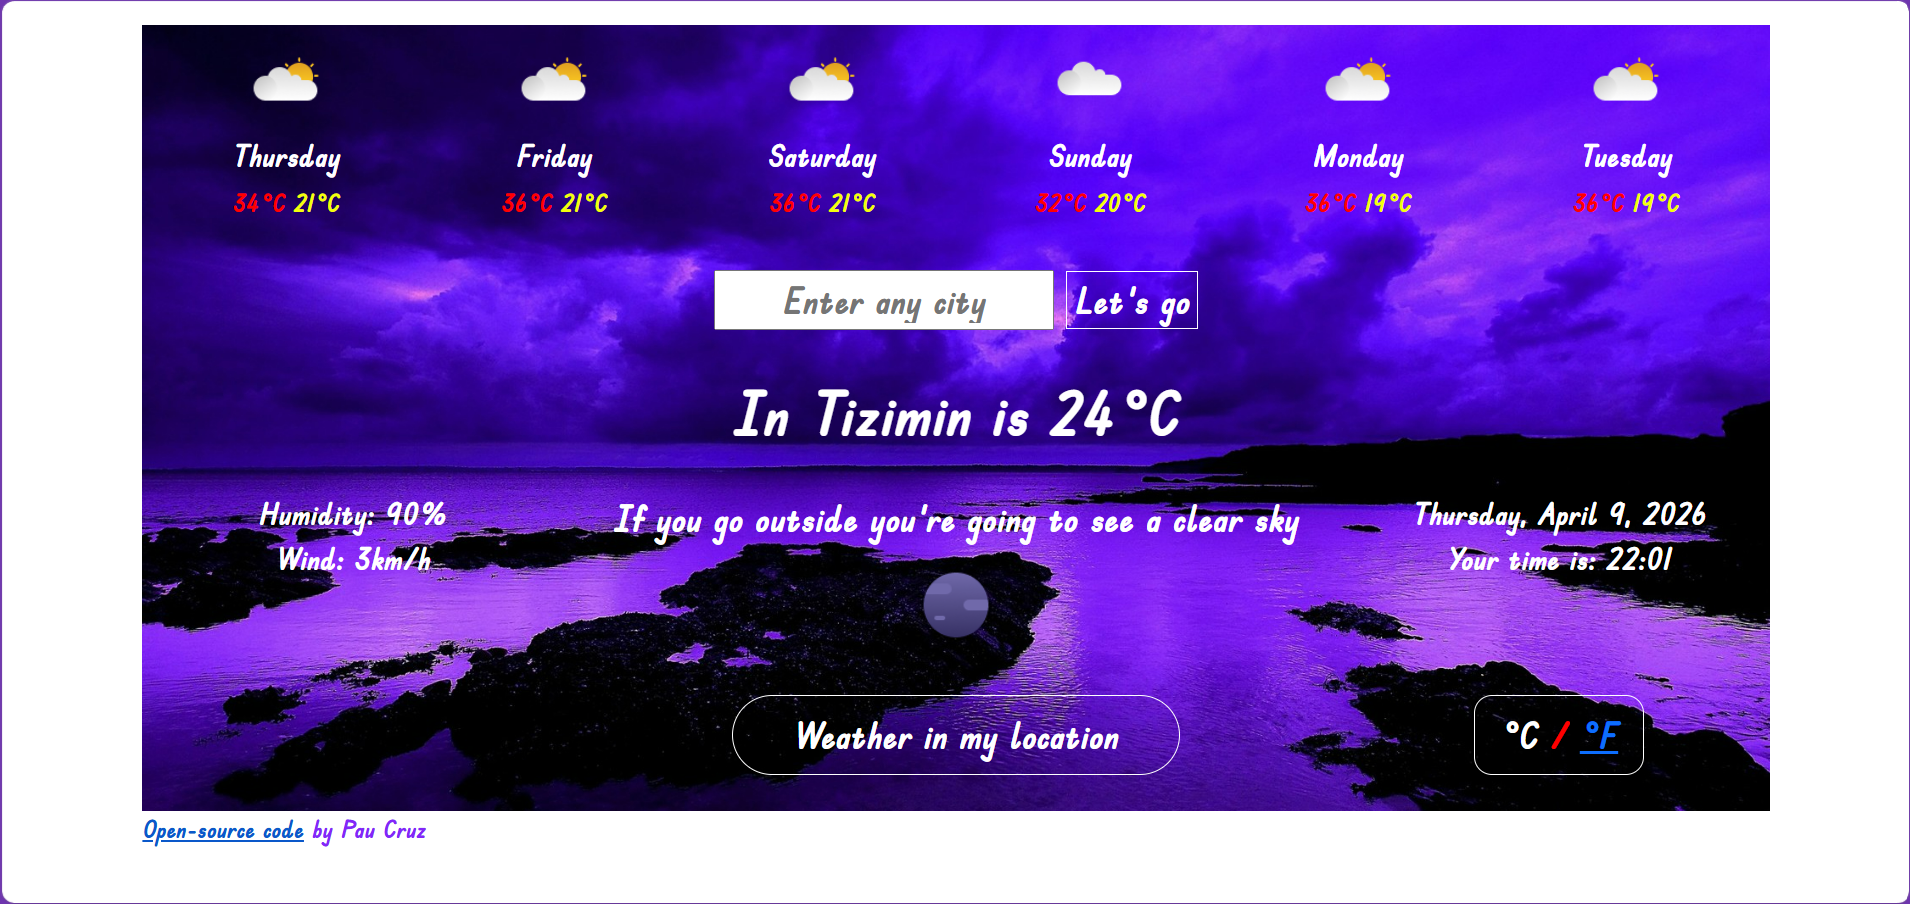
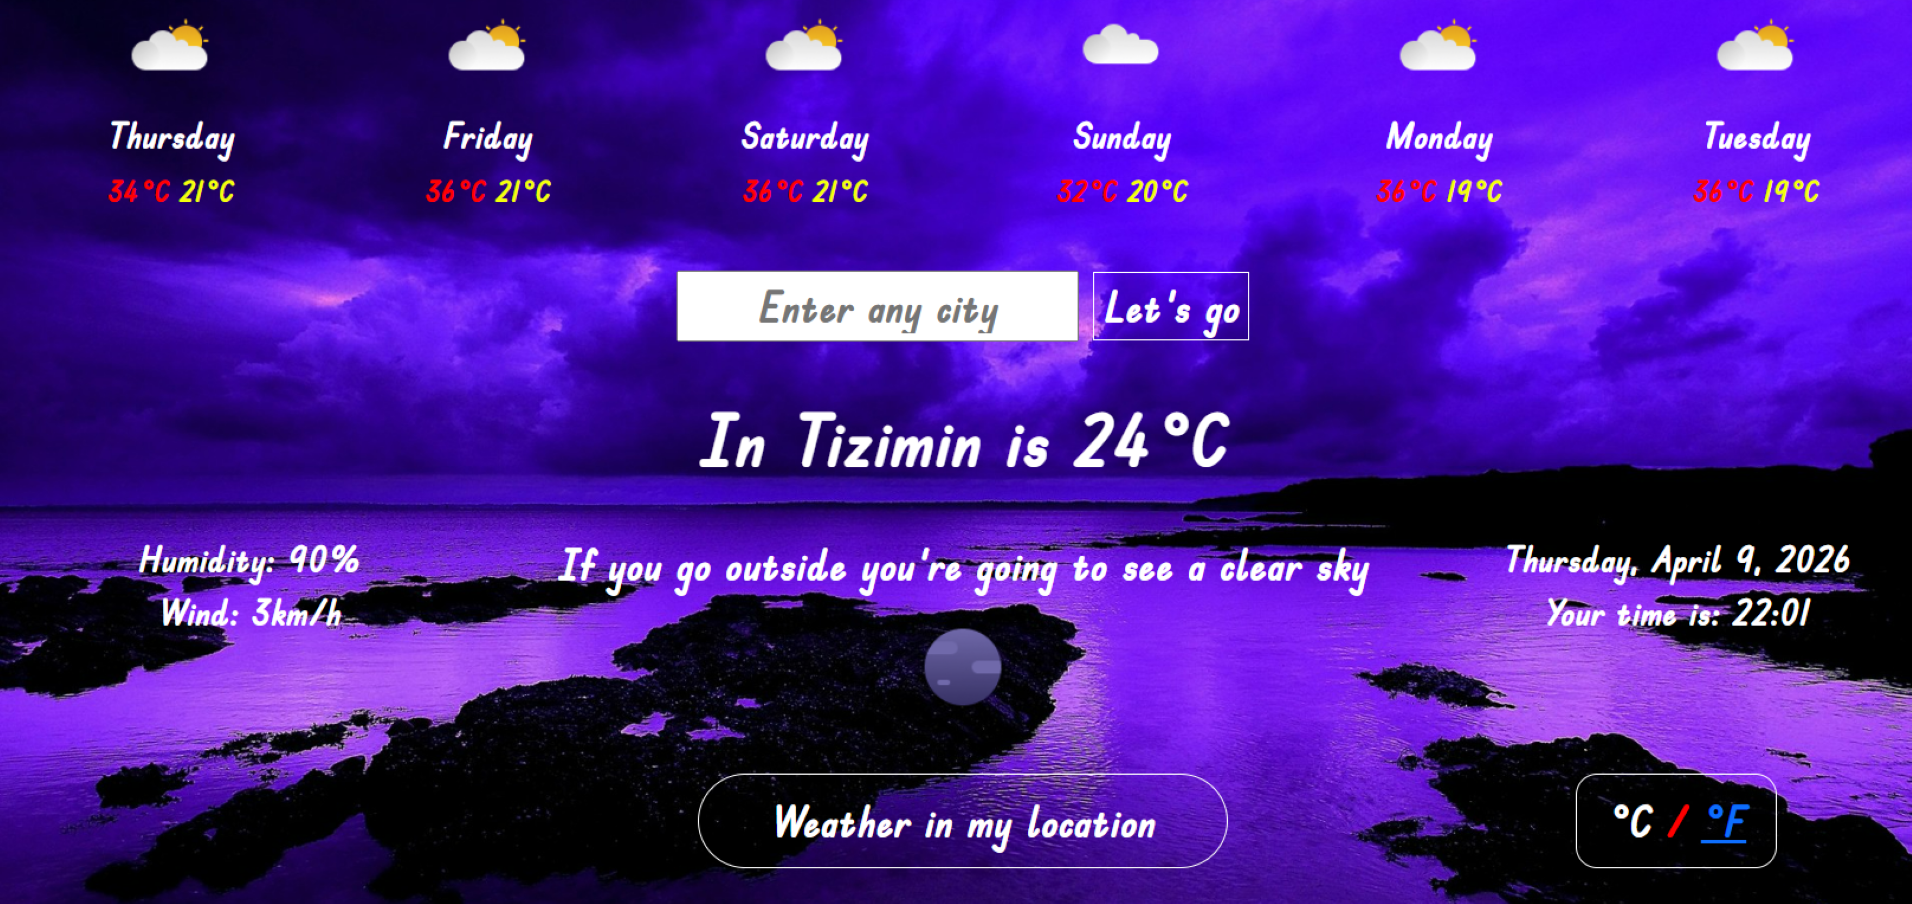
updated my projects

diff --git a/work.html b/work.html
@@ -102,7 +102,7 @@
           >
             <img
               src="images/women-poems.png"
-              alt="Paulina Cruz's Web page that finds poems written by women"
+              alt="Paulina Cruz's website that finds poems written by women"
               width="350"
               class="project-image p-1 shadow rounded"
             />
@@ -125,25 +125,25 @@
       <div class="row justify-content-center project-text">
         <div class="col-lg text-end order-lg-0 order-1">
           <div class="text-center text-lg-end">
-            <h3>WEATHER APP</h3>
+            <h3>POLYAMORY GUIDE</h3>
           </div>
           <p class="justified-text-left paragraph-pages">
-            Choose any city in the world and the searcher will show you this
-            week's weather prediction in that city. It also shows the weather in
-            ℃ and ℉, date and time of your current location.
+            A gentle guide to polyamory, centered on love, communication,
+            consent, and autonomy. Resources, definitions, and insights that
+            expand relationships beyond the constraints of monogamy.
           </p>
         </div>
 
         <div class="col-lg order-lg-1 order-0">
           <a
-            href="https://weather-pc.netlify.app/"
+            href="https://polyamory-guide-by-paulina.netlify.app/"
             target="_blank"
             rel="noopener noreferrer"
             class="image-link"
           >
             <img
-              src="images/weather-app.png"
-              alt="Paulina Cruz's Web page that shows you the weather in any city"
+              src="images/polyamory-guide.png"
+              alt="Paulina Cruz's website that provides a guide on polyamory"
               width="350"
               class="project-image p-1 shadow rounded"
             />
@@ -154,6 +154,47 @@
 
       <div class="row justify-content-center project-text">
         <div class="col-lg text-center text-lg-end">
+          <a
+            href="https://weather-pc.netlify.app/"
+            target="_blank"
+            rel="noopener noreferrer"
+            class="image-link"
+          >
+            <img
+              src="images/weather-app.png"
+              alt="Paulina Cruz's website that shows the weather in any city"
+              width="350"
+              class="project-image p-1 shadow rounded"
+            />
+            <span class="tap-text">Tap to open</span>
+          </a>
+        </div>
+
+        <div class="col-lg text-start">
+          <div class="text-center text-lg-start">
+            <h3>WEATHER APP</h3>
+          </div>
+          <p class="justified-text-right paragraph-pages">
+            Choose any city in the world and the searcher will show you this
+            week's weather prediction in that city. It also shows the weather in
+            ℃ and ℉, date and time of your current location.
+          </p>
+        </div>
+      </div>
+
+      <div class="row justify-content-center project-text">
+        <div class="col-lg text-end order-lg-0 order-1">
+          <div class="text-center text-lg-end">
+            <h3>WORLD CLOCK</h3>
+          </div>
+          <p class="justified-text-left paragraph-pages">
+            This page shows you the full date and time, in a digital clock, of
+            four default cities all around the world. You can also choose other
+            four cities or your current location.
+          </p>
+        </div>
+
+        <div class="col-lg order-lg-1 order-0">
           <a
             href="https://world-clock-pc.netlify.app/index.html"
             target="_blank"
@@ -168,17 +209,6 @@
             />
             <span class="tap-text">Tap to open</span>
           </a>
-        </div>
-
-        <div class="col-lg text-start">
-          <div class="text-center text-lg-start">
-            <h3>WORLD CLOCK</h3>
-          </div>
-          <p class="justified-text-right paragraph-pages">
-            This page shows you the full date and time, in a digital clock, of
-            four default cities all around the world. You can also choose other
-            four cities or your current location.
-          </p>
         </div>
       </div>
     </div>

diff --git a/index.html b/index.html
@@ -123,7 +123,7 @@
           >
             <img
               src="images/women-poems.png"
-              alt="Paulina Cruz's Web page that finds poems written by women"
+              alt="Paulina Cruz's website that finds poems written by women"
               width="350"
               class="project-image p-1 shadow rounded"
             />
@@ -146,25 +146,25 @@
       <div class="row justify-content-center project-text">
         <div class="col-lg text-end order-lg-0 order-1">
           <div class="text-center text-lg-end">
-            <h3>WEATHER APP</h3>
+            <h3>POLYAMORY GUIDE</h3>
           </div>
           <p class="justified-text-left paragraph-pages">
-            Choose any city in the world and the searcher will show you this
-            week's weather prediction in that city. It also shows the weather in
-            ℃ and ℉, date and time of your current location.
+            A gentle guide to polyamory, centered on love, communication,
+            consent, and autonomy. Resources, definitions, and insights that
+            expand relationships beyond the constraints of monogamy.
           </p>
         </div>
 
         <div class="col-lg order-lg-1 order-0 text-lg-start text-center">
           <a
-            href="https://weather-pc.netlify.app/"
+            href="https://polyamory-guide-by-paulina.netlify.app/"
             target="_blank"
             rel="noopener noreferrer"
             class="image-link"
           >
             <img
-              src="images/weather-app.png"
-              alt="Paulina Cruz's Web page that shows you the weather in any city"
+              src="images/polyamory-guide.png"
+              alt="Paulina Cruz's website that provides a guide on polyamory"
               width="350"
               class="project-image p-1 shadow rounded"
             />
@@ -176,14 +176,14 @@
       <div class="row justify-content-center project-text">
         <div class="col-lg text-center text-lg-end">
           <a
-            href="https://world-clock-pc.netlify.app/index.html"
+            href="https://weather-pc.netlify.app/"
             target="_blank"
             rel="noopener noreferrer"
             class="image-link"
           >
             <img
-              src="images/world-clock.png"
-              alt="Paulina Cruz's Web page that shows the time of a few cities"
+              src="images/weather-app.png"
+              alt="Paulina Cruz's website that shows you the weather in any city"
               width="350"
               class="project-image p-1 shadow rounded"
             />
@@ -193,12 +193,12 @@
 
         <div class="col-lg text-start">
           <div class="text-center text-lg-start">
-            <h3>WORLD CLOCK</h3>
+            <h3>WEATHER APP</h3>
           </div>
           <p class="justified-text-right paragraph-pages">
-            This page shows you the full date and time, in a digital clock, of
-            four default cities all around the world. You can also choose other
-            four cities or your current location.
+            Choose any city in the world and the searcher will show you this
+            week's weather prediction in that city. It also shows the weather in
+            ℃ and ℉, date and time of your current location.
           </p>
         </div>
       </div>

diff --git a/about.html b/about.html
@@ -155,7 +155,7 @@
           </li>
           <li class="mb-1 list">I also studied cinematography</li>
           <li class="mb-1 list">
-            I have 10 years of customer service experience
+            I have 8 years of customer service experience
           </li>
           <li class="mb-1 list">
             My personality type is
@@ -175,7 +175,7 @@
               <li class="my-1"><small>Spanish (native)</small></li>
               <li class="mb-1"><small>English (fluent C2)</small></li>
               <li class="mb-1">
-                <small>Portuguese (intermediate-advance)</small>
+                <small>Portuguese (advance)</small>
               </li>
             </ul>
           </li>
